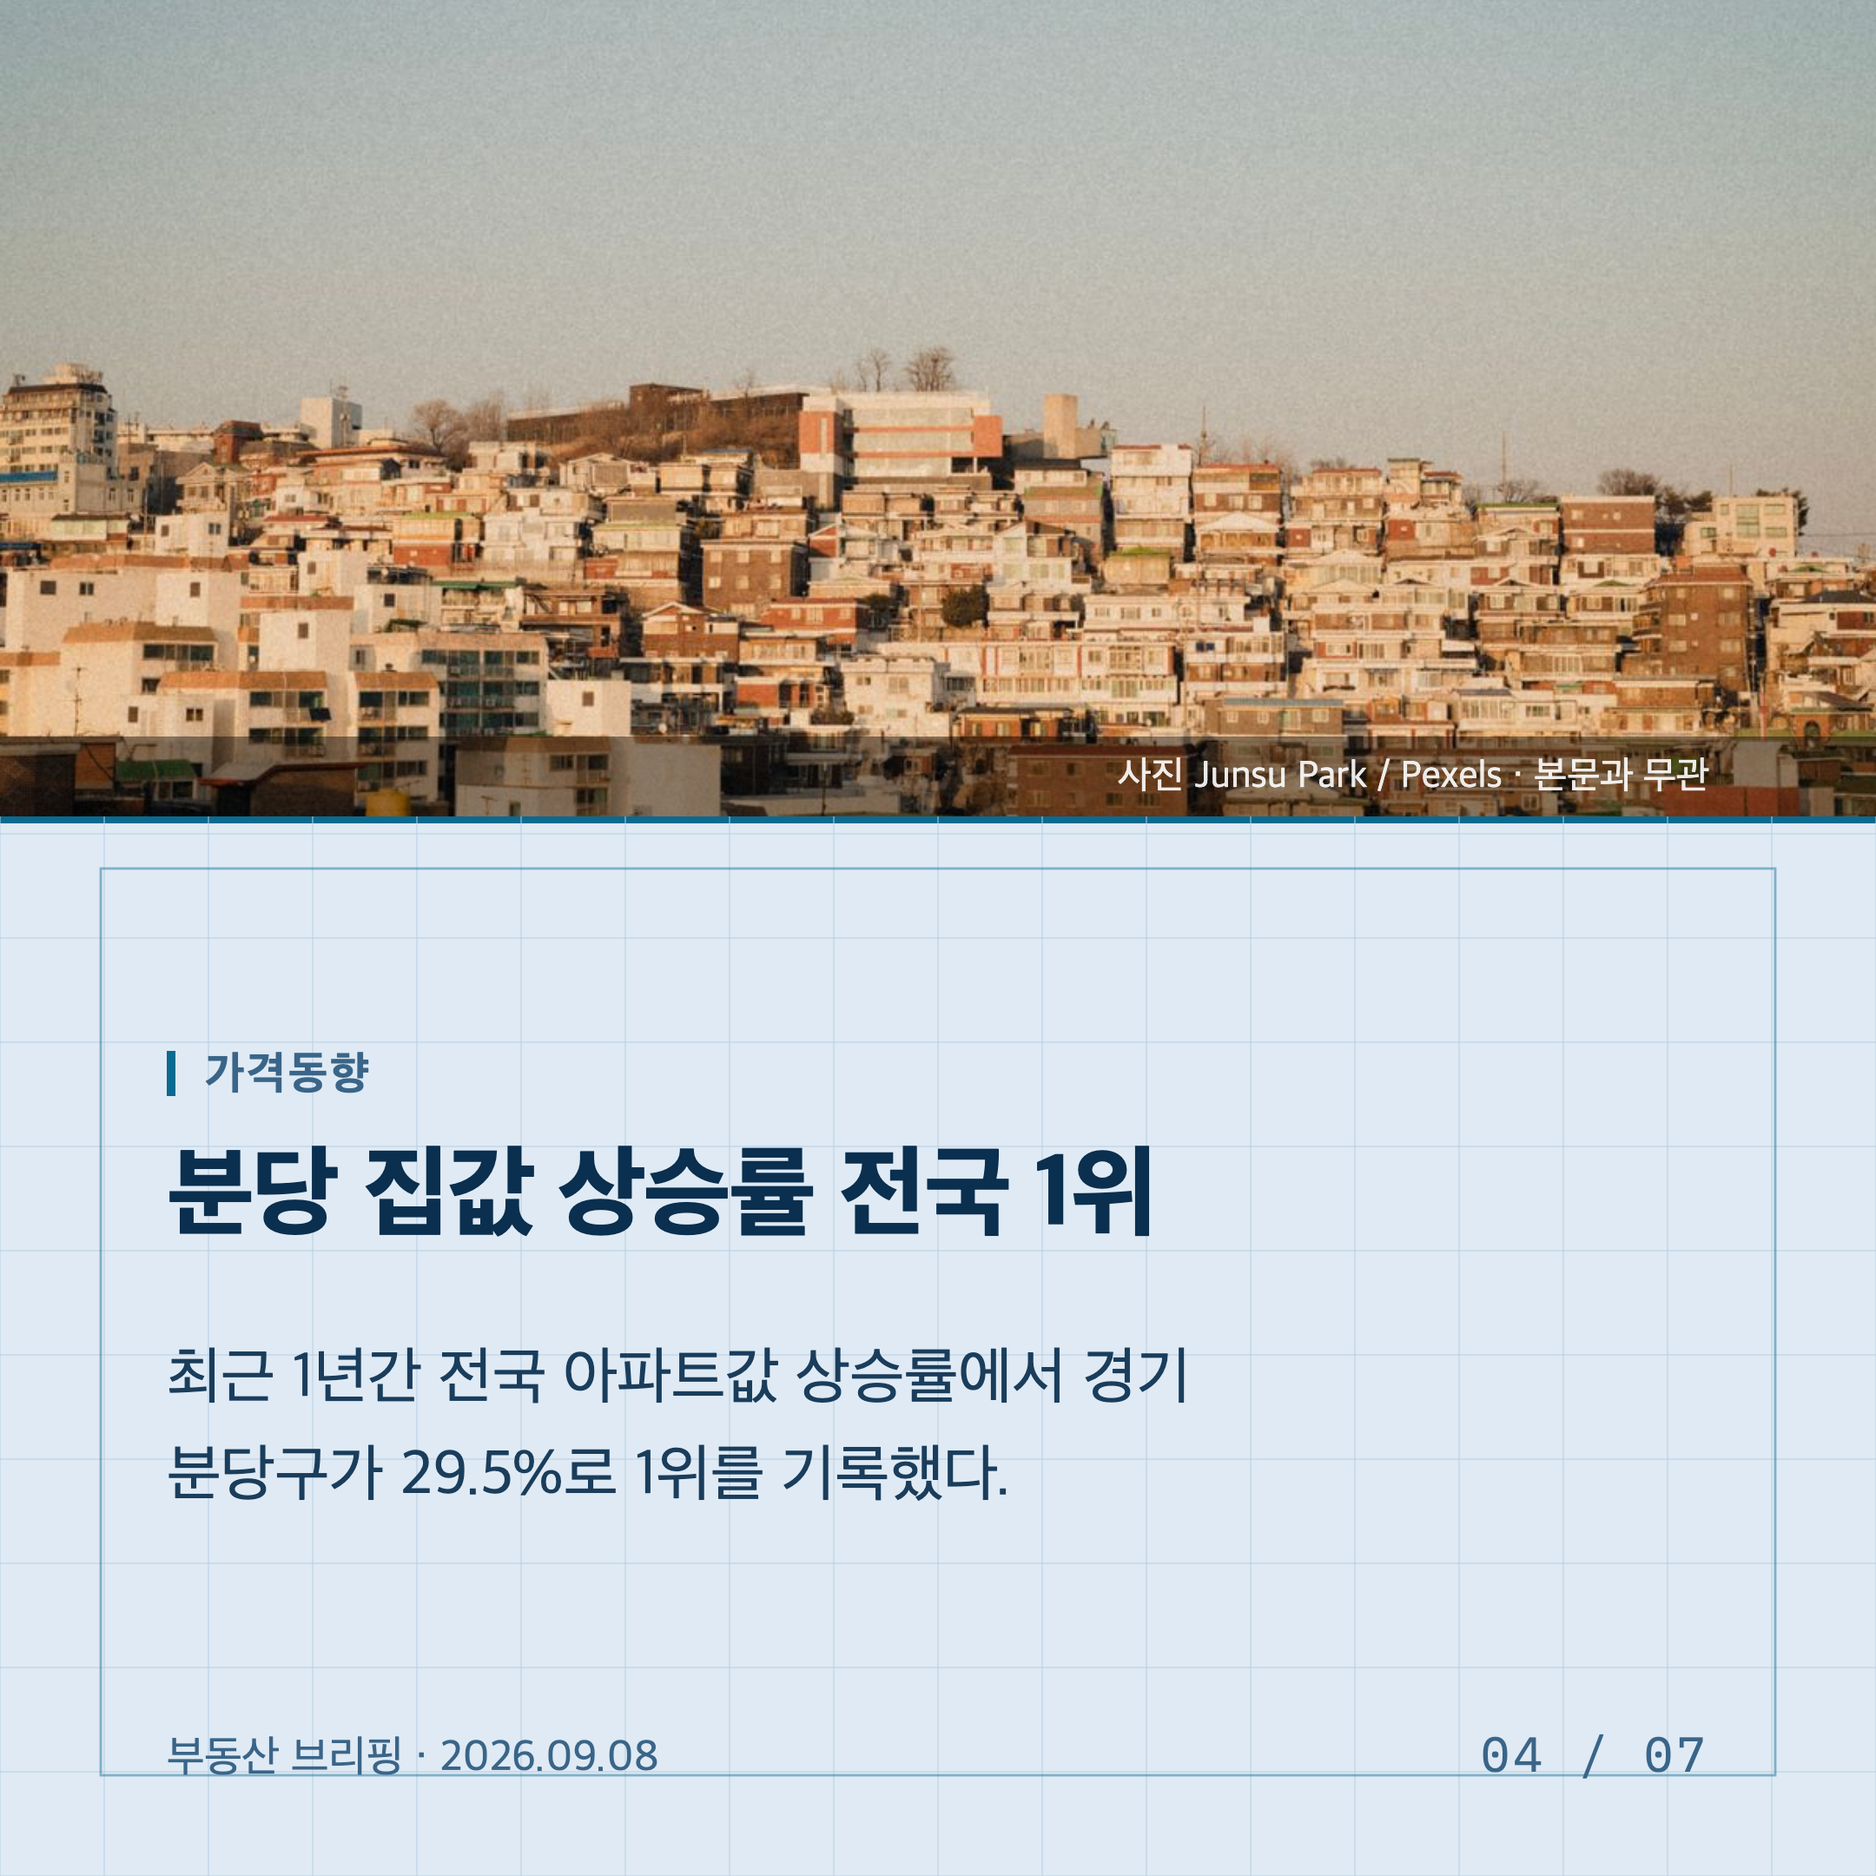
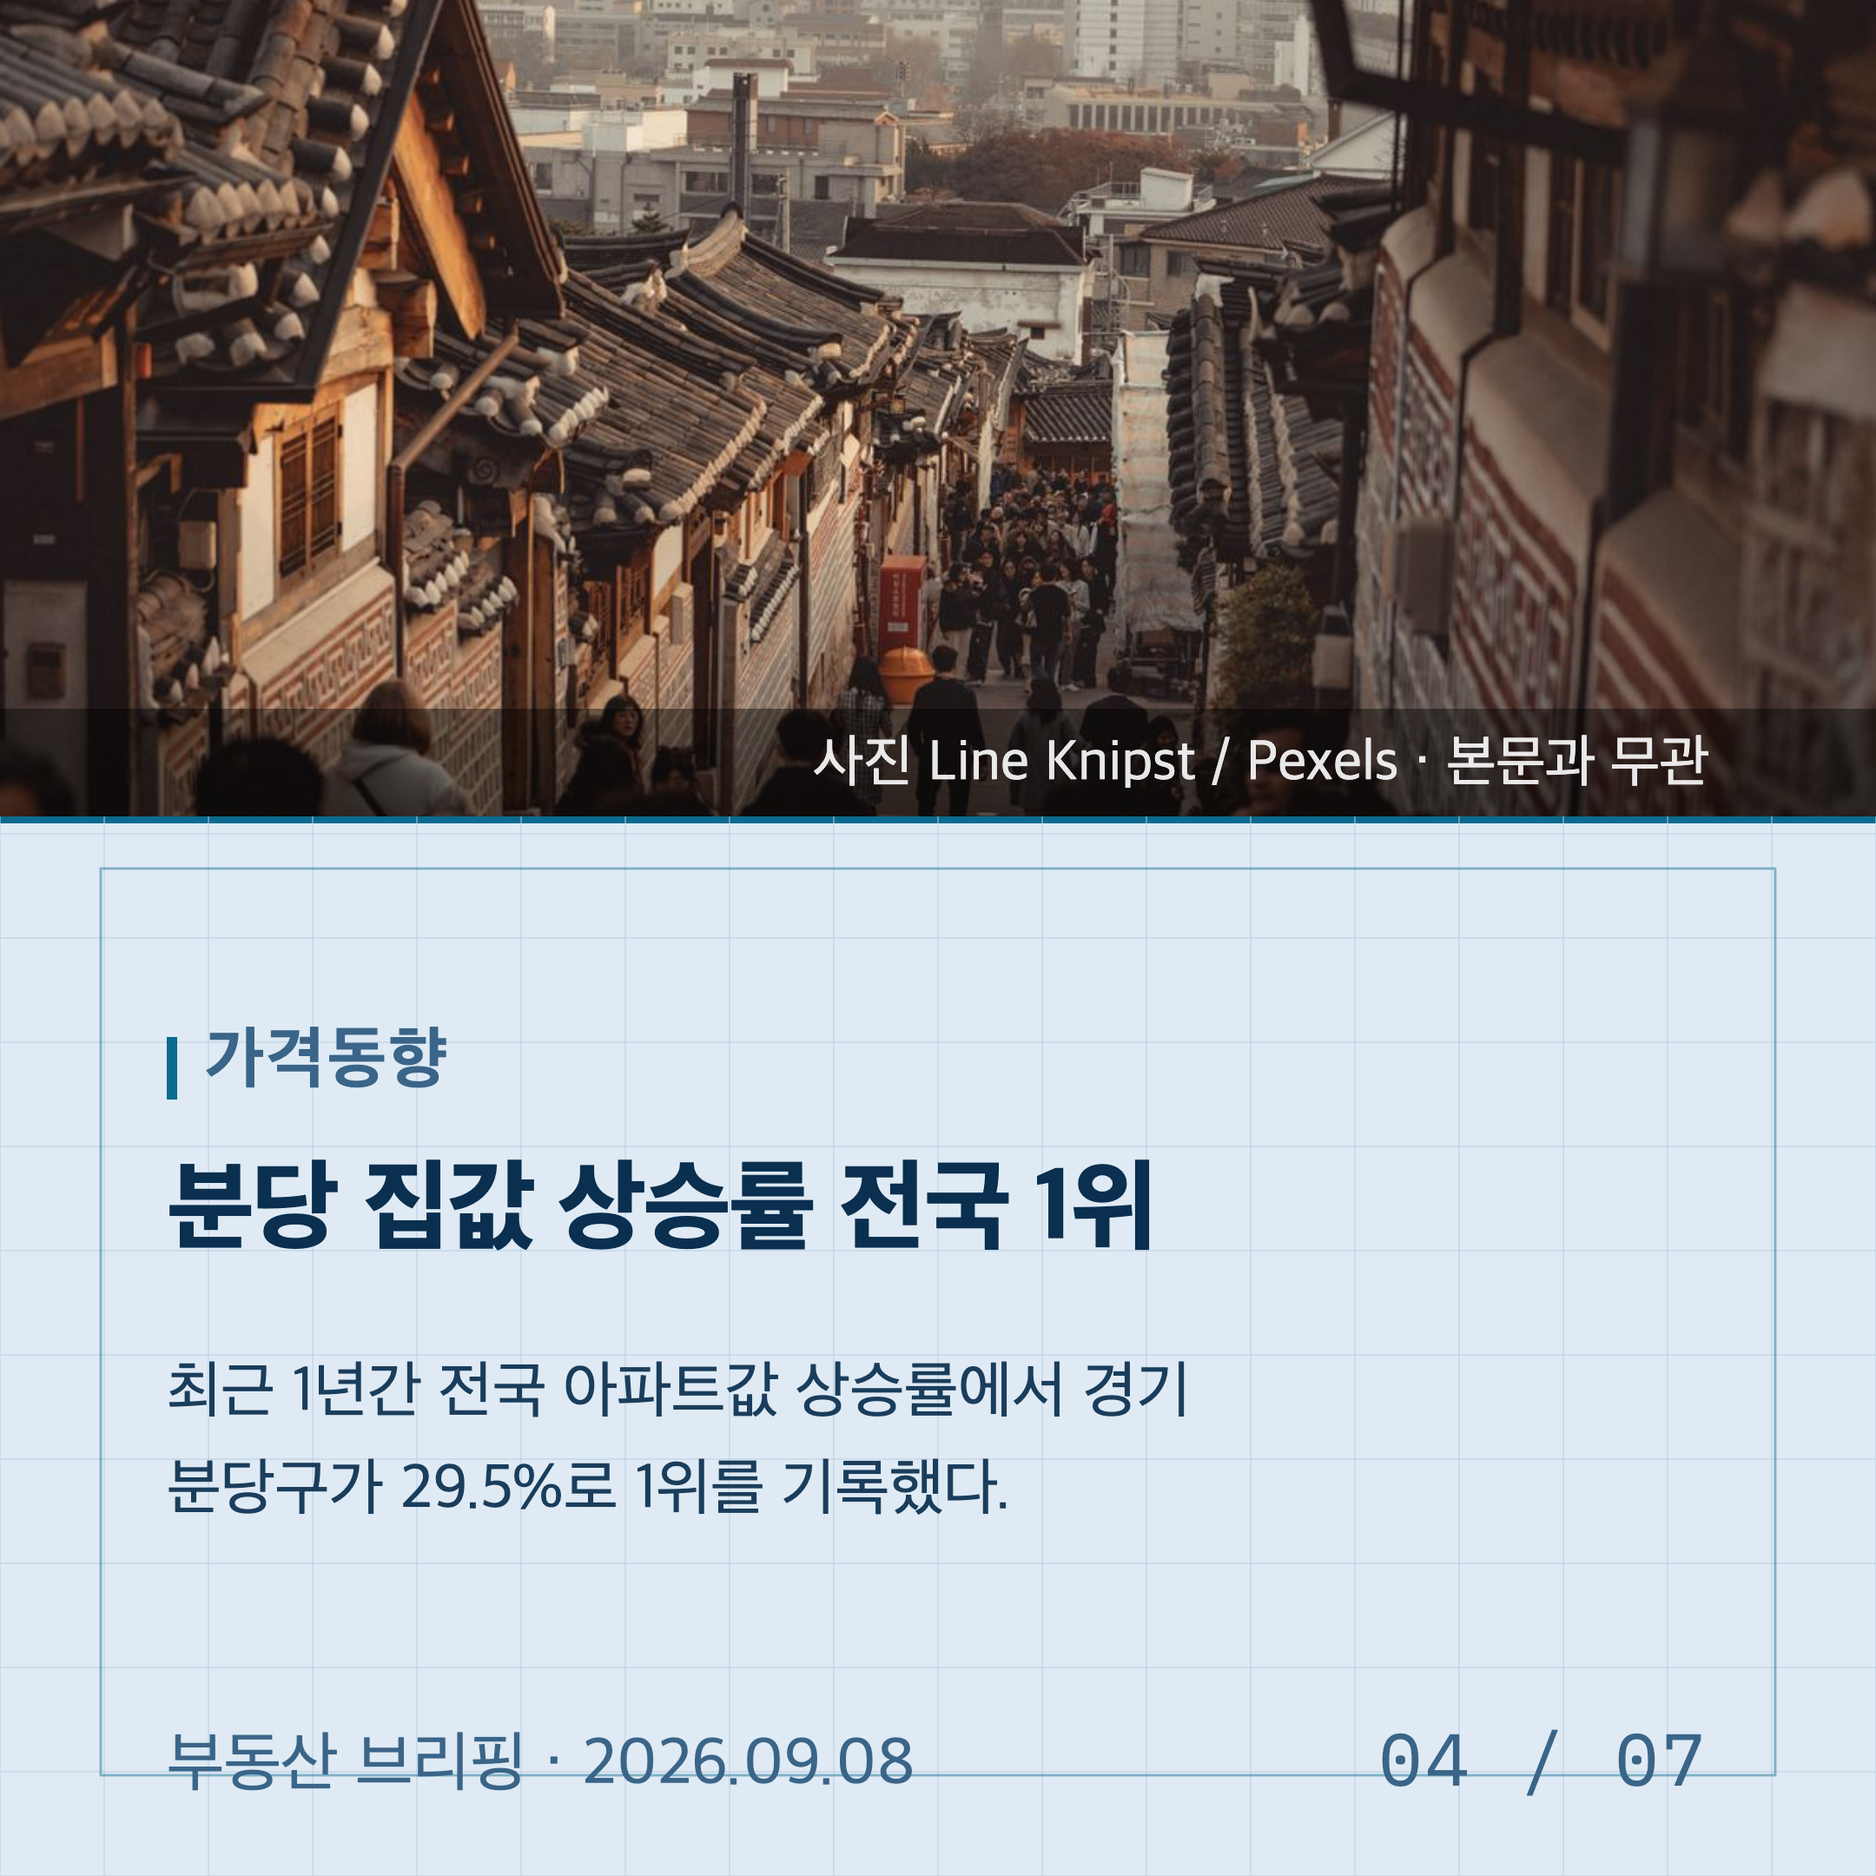
카드의 작은 글자를 1.5배로
사용자 요청입니다. 큰 글자는 그대로 두고 작은 것만 키웠습니다 —
머리글 28→42, 쪽번호 28→42, 분류 26→39, 수치 설명 31→46,
사진 출처 22→33, 소제목 33→49, 목록 번호 26→39.

키우고 나니 자리가 모자라 두 곳을 함께 고쳤습니다.

* 머리글이 커진 만큼 구분선(130→146)과 글 시작 자리(172→194)를 내렸습니다.
* '오늘의 숫자' 카드에서 세 번째 설명이 쪽번호와 겹친 채 카드 밖으로 흘러나갔습니다.
  이제 넘치면 **줄이지 않고 덜어 냅니다** — 셋을 다 넣으려고 수치를 작게 만들면
  '오늘의 숫자' 카드에서 숫자가 가장 작아지는 앞뒤 안 맞는 그림이 됩니다.
  빠진 수치는 이슈 카드가 어차피 다시 말합니다. 시험이 지킵니다.

시험 233개(1개 추가)와 pyflakes 는 깨끗합니다.

diff --git a/rebrief/images.py b/rebrief/images.py
@@ -1345,9 +1345,9 @@ def _card_frame(face: tuple, n: int, total: int, *, date: str = "", channel: str
         # 사진 출처 한 줄. **'본문과 무관' 을 빼지 마세요.** 은마아파트 기사 옆에 아무
         # 아파트 사진이 붙으면 읽는 사람은 그게 은마인 줄 압니다.
         if art.get("credit"):
-            p.append(f'<rect x="0" y="{band-46:.0f}" width="{w}" height="46" '
+            p.append(f'<rect x="0" y="{band-62:.0f}" width="{w}" height="62" '
                      f'fill="#000000" opacity="0.42"/>')
-            p.append(f'<text x="{w-96}" y="{band-16:.0f}" font-size="22" text-anchor="end" '
+            p.append(f'<text x="{w-96}" y="{band-20:.0f}" font-size="33" text-anchor="end" '
                      f'fill="#ffffff" opacity="0.9">{esc(art["credit"])}</text>')
         bottom = h - 100
         meta = []
@@ -1356,24 +1356,24 @@ def _card_frame(face: tuple, n: int, total: int, *, date: str = "", channel: str
         if date:
             meta.append(esc(date.replace("-", ".")))
         if meta:
-            p.append(f'<text x="96" y="{h-60}" font-size="25" fill="{dim}">'
+            p.append(f'<text x="96" y="{h-52}" font-size="38" fill="{dim}">'
                      f'{" · ".join(meta)}</text>')
     else:
-        top, bottom = 172, h - 152
+        top, bottom = 194, h - 158
         p.append(f'<rect x="58" y="58" width="{w-116}" height="{h-116}" fill="none" '
                  f'stroke="{signal}" stroke-width="1.4" opacity="0.45"/>')
         if channel:
-            p.append(f'<text x="96" y="102" font-size="28" font-weight="700" letter-spacing="1" '
+            p.append(f'<text x="96" y="110" font-size="42" font-weight="700" letter-spacing="1" '
                      f'fill="{ink}">{esc(channel)}</text>')
         if date:
-            p.append(f'<text x="{w-96}" y="102" font-size="26" font-family="{MONO}" '
+            p.append(f'<text x="{w-96}" y="110" font-size="39" font-family="{MONO}" '
                      f'letter-spacing="1" text-anchor="end" fill="{dim}">'
                      f'{esc(date.replace("-", "."))}</text>')
-        p.append(f'<line x1="96" y1="130" x2="{w-96}" y2="130" stroke="{rule}" stroke-width="1.5"/>')
+        p.append(f'<line x1="96" y1="146" x2="{w-96}" y2="146" stroke="{rule}" stroke-width="1.5"/>')
         p.append(f'<line x1="96" y1="{h-108}" x2="{w-96}" y2="{h-108}" stroke="{rule}" '
                  f'stroke-width="1.5"/>')
     if total > 1:
-        p.append(f'<text x="{w-96}" y="{h-60}" font-size="28" font-family="{MONO}" letter-spacing="2" '
+        p.append(f'<text x="{w-96}" y="{h-52}" font-size="42" font-family="{MONO}" letter-spacing="2" '
                  f'text-anchor="end" fill="{dim}">{n:02d} / {total:02d}</text>')
     return p, top, bottom
 
@@ -1495,19 +1495,39 @@ def _numbers_card(nums: list[dict], n: int, total: int, date: str, channel: str)
     p, top, bottom = _card_frame(CARD_FACES["numbers"], n, total, date=date, channel=channel)
     inner = w - 192
 
-    p.append(f'<text x="96" y="{top+36:.0f}" font-size="33" font-weight="700" letter-spacing="2.5" '
+    p.append(f'<text x="96" y="{top+40:.0f}" font-size="49" font-weight="700" letter-spacing="2.5" '
              f'fill="{ink}" opacity="0.9">오늘의 숫자</text>')
-    measured = []
-    for dp in nums[:3]:
-        value = f"{dp.get('value', '')}{dp.get('unit', '')}".strip()
-        v_size = 140
-        while text_width(value, v_size) > inner and v_size > 60:
-            v_size -= 6
-        label, l_size = _fit(dp.get("label", ""), 31, inner, 2)
-        measured.append((value, v_size, label, l_size,
-                         v_size * 0.82 + 24 + l_size * 1.35 * len(label) + 56))
+    head_h = 104
+    inner = w - 192
 
-    y = top + 90 + max(0, (bottom - top - 90 - sum(m[4] for m in measured)) / 2)
+    def measure(cap: float) -> list[tuple]:
+        rows = []
+        for dp in nums[:3]:
+            value = f"{dp.get('value', '')}{dp.get('unit', '')}".strip()
+            v_size = cap
+            while text_width(value, v_size) > inner and v_size > 60:
+                v_size -= 6
+            label, l_size = _fit(dp.get("label", ""), 46, inner, 2)
+            rows.append((value, v_size, label, l_size,
+                         v_size * 0.82 + 24 + l_size * 1.35 * len(label) + 56))
+        return rows
+
+    # 글씨를 키운 뒤로 세 수치가 늘 들어가지는 않는다. 그냥 쌓으면 마지막 설명이
+    # 쪽번호와 겹친 채 카드 밖으로 흘러나간다 (2026-09-08 에 실제로 그랬다).
+    #
+    # **줄이기보다 덜어 냅니다.** 셋을 다 넣으려고 수치를 작게 만들면 '오늘의 숫자'
+    # 카드에서 숫자가 가장 작아지는 앞뒤가 안 맞는 그림이 됩니다. 둘을 크게 보이고
+    # 나머지는 이슈 카드가 어차피 다시 말합니다.
+    room = bottom - top - head_h
+    measured = measure(140)
+    while len(measured) > 1 and sum(m[4] for m in measured) > room:
+        measured.pop()
+    cap = 140
+    while sum(m[4] for m in measured) > room and cap > 96:
+        cap -= 8
+        measured = measure(cap)[:len(measured)]
+
+    y = top + head_h + max(0, (room - sum(m[4] for m in measured)) / 2)
     for i, (value, v_size, label, l_size, height) in enumerate(measured):
         _numeral(p, value, 96, y + v_size * 0.82, v_size, ink)
         for j, line in enumerate(label):
@@ -1536,7 +1556,7 @@ def _issue_card(issue: dict, n: int, total: int, date: str, channel: str,
     blocks: list[tuple] = []
     cat = str(issue.get("category", "")).strip()
     if cat:
-        blocks.append(("cat", cat, 58))
+        blocks.append(("cat", cat, 74))
 
     t_max = 70 if not art else 58
     title, t_size = _fit(str(issue.get("title", "")), t_max, inner, 3, floor=44)
@@ -1549,7 +1569,7 @@ def _issue_card(issue: dict, n: int, total: int, date: str, channel: str,
         v_size = 116
         while text_width(value, v_size) > inner - 20 and v_size > 56:
             v_size -= 6
-        lab, lab_size = _fit(str(dp.get("label", "")), 30, inner, 2)
+        lab, lab_size = _fit(str(dp.get("label", "")), 45, inner, 2)
         blocks.append(("number", (value, v_size, lab, lab_size),
                        v_size * 0.82 + 22 + lab_size * 1.35 * len(lab) + 44))
 
@@ -1558,7 +1578,7 @@ def _issue_card(issue: dict, n: int, total: int, date: str, channel: str,
         blocks.append(("body", (body, b_size), b_size * 1.55 * len(body) + 34))
 
     for fact in [f for f in (issue.get("what_happened") or []) if f][:3]:
-        lines, size = _fit(fact, 31, inner - 48, 2)
+        lines, size = _fit(fact, 46, inner - 60, 2)
         blocks.append(("fact", (lines, size), size * 1.5 * len(lines) + 22))
 
     while len(blocks) > 2 and sum(b[2] for b in blocks) > bottom - top:
@@ -1567,8 +1587,8 @@ def _issue_card(issue: dict, n: int, total: int, date: str, channel: str,
 
     for kind, value, height in blocks:
         if kind == "cat":
-            p.append(f'<rect x="96" y="{y+6:.0f}" width="5" height="26" fill="{signal}"/>')
-            p.append(f'<text x="118" y="{y+28:.0f}" font-size="26" font-weight="700" '
+            p.append(f'<rect x="96" y="{y+6:.0f}" width="6" height="36" fill="{signal}"/>')
+            p.append(f'<text x="118" y="{y+32:.0f}" font-size="39" font-weight="700" '
                      f'letter-spacing="1.5" fill="{dim}">{esc(value)}</text>')
         elif kind == "title":
             lines, size = value
@@ -1612,16 +1632,16 @@ def _list_card(title: str, items: list[str], slug: str, n: int, total: int,
         lines, size = _fit(item, base, inner, 2)
         rows.append((lines, size, size * 1.5 * len(lines) + 42))
 
-    head_h = 112
+    head_h = 136
     while rows and head_h + sum(r[2] for r in rows) > bottom - top:
         rows.pop()
     y = top + max(0, (bottom - top - head_h - sum(r[2] for r in rows)) / 2)
 
-    p.append(f'<text x="96" y="{y+36:.0f}" font-size="33" font-weight="700" letter-spacing="2.5" '
+    p.append(f'<text x="96" y="{y+36:.0f}" font-size="49" font-weight="700" letter-spacing="2.5" '
              f'fill="{signal}">{esc(title)}</text>')
     y += head_h
     for i, (lines, size, height) in enumerate(rows, start=1):
-        p.append(f'<text x="96" y="{y+size:.0f}" font-size="26" font-family="{MONO}" '
+        p.append(f'<text x="96" y="{y+size:.0f}" font-size="39" font-family="{MONO}" '
                  f'fill="{dim}">{i:02d}</text>')
         for j, line in enumerate(lines):
             p.append(f'<text x="162" y="{y+size+j*size*1.5:.0f}" font-size="{size:.0f}" '

diff --git a/tests/test_develop.py b/tests/test_develop.py
@@ -2156,6 +2156,27 @@ def test_cards_put_the_graphic_on_top_and_the_words_below(cfg, tmp_path):
     assert "번째 이야기입니다." in issue.svg
 
 
+def test_number_card_drops_a_number_instead_of_overflowing(cfg):
+    """수치가 다 안 들어가면 카드 밖으로 흘리지 말고 덜어 낸다.
+
+    2026-09-08 에 작은 글자를 1.5배로 키웠더니 세 번째 설명이 쪽번호와 겹친 채
+    카드 아래로 흘러나갔습니다. 줄이기보다 덜어 냅니다 — '오늘의 숫자' 카드에서
+    숫자가 가장 작아지면 앞뒤가 안 맞습니다.
+    """
+    from rebrief import images
+
+    긴설명 = "서울 정책대출(주금공) 대상 아파트 가격 기준으로 본 최근 상황"
+    brief = _brief_for_cards()
+    brief["issues"][0]["numbers"] = [{"value": "6", "unit": "억원 이하", "label": 긴설명}]
+    got = images.cards(brief, date="2026-09-08",
+                       key_numbers=[{"value": "6", "unit": "억원 이하", "label": 긴설명},
+                                    {"value": "29.5", "unit": "%", "label": 긴설명},
+                                    {"value": "28.4", "unit": "%", "label": 긴설명}])
+    card = next(g for g in got if g.slug.endswith("-numbers"))
+    ys = [float(m) for m in re.findall(r'<text x="96" y="([0-9.]+)"', card.svg)]
+    assert ys and max(ys) < 1080 - 100, f"글이 카드 밖으로 나갔다 (y={max(ys):.0f})"
+
+
 def test_cards_are_square_and_numbered(cfg):
     from rebrief import images
 

diff --git a/CLAUDE.md b/CLAUDE.md
@@ -492,9 +492,18 @@ Actions 탭에 비활성 안내 띠 없음, cron 문법 정상, 기본 브랜치
   글꼴을 SVG 머리에 넣는데 어떤 글자를 쓸지는 다 그려 봐야 알기 때문입니다.
 * **카드 글꼴은 카드에만 씁니다** (`CARD_FONT`). 블로그 인포그래픽까지 바꾸면 러너에
   프리텐다드가 없어 맥에서 만든 그림과 러너에서 만든 그림이 달라집니다.
-* **글자 크기는 2026-09-08 에 한 번 키웠습니다** (사용자 요청). 제목 92→104, 큰 숫자
-  126→140, 본문 34→39 식으로 12~15%씩입니다. 더 키우려면 `_fit` 의 `floor` 도 함께
-  올려야 합니다 — 안 그러면 긴 제목만 예전 크기로 줄어들어 카드마다 크기가 들쭉날쭉해집니다.
+* **글자 크기는 2026-09-08 에 두 번 키웠습니다** (사용자 요청). 먼저 전체를 12~15%
+  (제목 92→104, 큰 숫자 126→140, 본문 34→39), 그다음 **작은 글자만 1.5배**
+  (머리글 28→42, 쪽번호 28→42, 분류 26→39, 수치 설명 31→46, 사진 출처 22→33,
+  소제목 33→49, 목록 번호 26→39). 큰 글자는 그대로 두었습니다.
+  더 키우려면 `_fit` 의 `floor` 도 함께 올려야 합니다 — 안 그러면 긴 제목만 예전
+  크기로 줄어들어 카드마다 크기가 들쭉날쭉해집니다.
+* **작은 글자를 키우면 자리가 모자랍니다.** 머리글이 커진 만큼 구분선(130→146)과 글
+  시작 자리(172→194)를 함께 내려야 합니다. 그리고 '오늘의 숫자' 카드는 이제 수치
+  **세 개가 다 들어가지 않는 날이 있습니다** — 그럴 때 `_numbers_card` 는 **줄이지 않고
+  덜어 냅니다.** 셋을 넣으려고 수치를 작게 만들면 '오늘의 숫자' 카드에서 숫자가 가장
+  작아지는 앞뒤 안 맞는 그림이 됩니다. 빠진 수치는 이슈 카드가 어차피 다시 말합니다.
+  `test_number_card_drops_a_number_instead_of_overflowing` 이 지킵니다.
 * **고정폭은 반드시 조여야 합니다** (`_numeral`). 자간·낱말 사이·마침표 앞뒤 세 곳입니다.
   낱말 사이를 안 줄이면 '6억원 이하' 의 빈칸이 76px 을 먹고, 마침표를 안 당기면 `29.5%` 가
   `29 . 5%` 로 읽힙니다. 둘 다 실제로 그렇게 나왔습니다.
